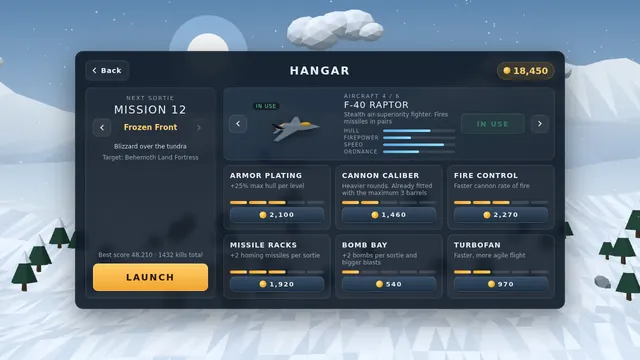
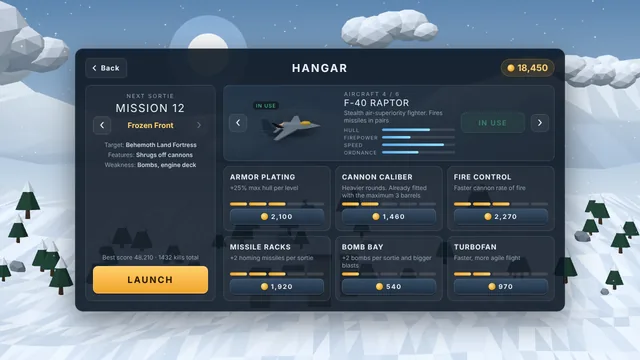
Add Torrondola, refresh the Hostile Horizon hangar shot, use a hyphen in the title
- Page title (and og:title) now reads "Manish Majhi - Browser Games" with a
  plain hyphen instead of an em dash.
- Recaptured the Hostile Horizon hangar at 1280x720 (plus the 640 thumbnail)
  from a local build of the latest main, so it shows the new Target / Features /
  Weakness lines for the next mission. Updated its caption and alt text.
- New Torrondola project card: description, stats, features, controls, tags and
  Play / Source links, with seven real gameplay screenshots captured at phone
  size (720x1280, 360x640 thumbnails) in a portrait gallery. The gallery script
  now reads per-gallery image widths from data-small / data-large.
- Torrondola added to the hero buttons, meta descriptions, What's new and the
  "How they're built" section, which now covers all three games.
- README lists the new game and the portrait screenshot naming.

Claude-Session: https://claude.ai/code/session_01SN9dJ4T8zWgow6LPie8hvX

diff --git a/index.html b/index.html
@@ -3,8 +3,8 @@
 <head>
   <meta charset="utf-8">
   <meta name="viewport" content="width=device-width, initial-scale=1">
-  <title>Manish Majhi — Browser Games</title>
-  <meta name="description" content="Browser games by Manish Majhi: Tunnel Arcade, an endless 3D tunnel flyer, and Hostile Horizon, a side-scrolling aerial combat game. Built with Three.js, installable and playable offline.">
+  <title>Manish Majhi - Browser Games</title>
+  <meta name="description" content="Browser games by Manish Majhi: Tunnel Arcade, an endless 3D tunnel flyer, Hostile Horizon, a side-scrolling aerial combat game, and Torrondola, a pixel-art tower stacker. Installable and playable offline.">
   <meta name="theme-color" content="#070b12">
   <meta name="color-scheme" content="dark">
   <link rel="canonical" href="https://manishmajhimidackertech.github.io/">
@@ -12,8 +12,8 @@
 
   <meta property="og:type" content="website">
   <meta property="og:url" content="https://manishmajhimidackertech.github.io/">
-  <meta property="og:title" content="Manish Majhi — Browser Games">
-  <meta property="og:description" content="Tunnel Arcade and Hostile Horizon: fast, installable Three.js games that play offline, with every model, texture and sound generated in code.">
+  <meta property="og:title" content="Manish Majhi - Browser Games">
+  <meta property="og:description" content="Tunnel Arcade, Hostile Horizon and Torrondola: fast, installable browser games that play offline, with every model, sprite and sound generated in code.">
   <meta property="og:image" content="https://manishmajhimidackertech.github.io/assets/og-image.jpg">
   <meta property="og:image:width" content="1200">
   <meta property="og:image:height" content="630">
@@ -34,6 +34,7 @@
       --cyan: #7fe8ff;
       --blue: #3a9dff;
       --orange: #ffb04a;
+      --rose: #ff8fb4;
       --radius: 18px;
       color-scheme: dark;
     }
@@ -99,7 +100,8 @@
     .btn:hover { border-color: var(--cyan); transform: translateY(-1px); }
     .btn.cyan { background: var(--cyan); color: #04121a; border-color: var(--cyan); }
     .btn.warm { background: var(--orange); color: #1a0d02; border-color: var(--orange); }
-    .btn.cyan:hover, .btn.warm:hover { filter: brightness(1.08); }
+    .btn.rose { background: var(--rose); color: #1f0612; border-color: var(--rose); }
+    .btn.cyan:hover, .btn.warm:hover, .btn.rose:hover { filter: brightness(1.08); }
     .btn svg { width: 16px; height: 16px; flex: none; }
 
     /* ---------- section headings ---------- */
@@ -186,6 +188,16 @@
 
     .tunnel { --accent: var(--cyan); }
     .horizon { --accent: var(--orange); }
+    .torrondola { --accent: var(--rose); }
+
+    /* Portrait game (Torrondola): tall screenshots in a narrower gallery column. */
+    .gallery.portrait .shot-main { aspect-ratio: 9 / 16; width: min(100%, 340px); margin: 0 auto; }
+    .gallery.portrait figcaption { text-align: center; }
+    .gallery.portrait .thumbs { grid-template-columns: repeat(auto-fill, minmax(40px, 1fr)); }
+    .gallery.portrait .thumb { aspect-ratio: 9 / 16; }
+    @media (min-width: 960px) {
+      .project.portrait { grid-template-columns: minmax(0, 380px) minmax(0, 1fr); }
+    }
 
     /* ---------- what's new ---------- */
     .updates { display: grid; gap: 20px; grid-template-columns: repeat(auto-fit, minmax(min(340px, 100%), 1fr)); }
@@ -244,12 +256,14 @@
     <div class="eyebrow">Portfolio · Browser games</div>
     <h1>Hi, I'm Manish.<br>I build <span class="grad">games for the web</span>.</h1>
     <p class="lede">
-      Fast, installable 3D games made with Three.js. There's nothing to download and no app store:
-      every model, texture and sound is generated in code, and both games keep working offline.
+      Fast, installable games that run in the browser: two 3D games made with Three.js and a pixel-art tower stacker.
+      There's nothing to download and no app store: every model, sprite, texture and sound is generated in code,
+      and all three games keep working offline.
     </p>
     <div class="links">
       <a class="btn cyan" href="https://manishmajhimidackertech.github.io/Tunnel-Arcade/">▶ Play Tunnel Arcade</a>
       <a class="btn warm" href="https://manishmajhimidackertech.github.io/Hostile-Horizon/">▶ Play Hostile Horizon</a>
+      <a class="btn rose" href="https://manishmajhimidackertech.github.io/torrondola/">▶ Play Torrondola</a>
       <a class="btn" href="https://github.com/manishmajhimidackertech">
         <svg viewBox="0 0 16 16" fill="currentColor" aria-hidden="true"><path d="M8 0C3.58 0 0 3.58 0 8c0 3.54 2.29 6.53 5.47 7.59.4.07.55-.17.55-.38 0-.19-.01-.82-.01-1.49-2.01.37-2.53-.49-2.69-.94-.09-.23-.48-.94-.82-1.13-.28-.15-.68-.52-.01-.53.63-.01 1.08.58 1.23.82.72 1.21 1.87.87 2.33.66.07-.52.28-.87.51-1.07-1.78-.2-3.64-.89-3.64-3.95 0-.87.31-1.59.82-2.15-.08-.2-.36-1.02.08-2.12 0 0 .67-.21 2.2.82.64-.18 1.32-.27 2-.27.68 0 1.36.09 2 .27 1.53-1.04 2.2-.82 2.2-.82.44 1.1.16 1.92.08 2.12.51.56.82 1.27.82 2.15 0 3.07-1.87 3.75-3.65 3.95.29.25.54.73.54 1.48 0 1.07-.01 1.93-.01 2.2 0 .21.15.46.55.38A8.013 8.013 0 0016 8c0-4.42-3.58-8-8-8z"/></svg>
         GitHub profile
@@ -260,7 +274,7 @@
   <main class="wrap">
     <section id="projects" aria-labelledby="projects-title">
       <h2 id="projects-title">Projects</h2>
-      <p class="section-lede">Two games, both playable in the browser on a phone, tablet or computer. The screenshots are real gameplay.</p>
+      <p class="section-lede">Three games, all playable in the browser on a phone, tablet or computer. The screenshots are real gameplay.</p>
 
       <!-- ================= Tunnel Arcade ================= -->
       <article class="project tunnel" id="tunnel-arcade" aria-labelledby="ta-title">
@@ -376,8 +390,8 @@
               data-caption="Night Siege: sweeping watchtower searchlights"
               data-alt="Hostile Horizon: a Su-X Specter flies over a dark forest crossed by watchtower searchlight beams"><img src="assets/shots/horizon-night-640.webp" alt="Night Siege" width="640" height="360" loading="lazy"></button></li>
             <li><button type="button" class="thumb" aria-pressed="false" data-shot="horizon-hangar"
-              data-caption="The hangar: six aircraft, each with its own upgrades"
-              data-alt="Hostile Horizon hangar screen showing the F-40 Raptor, its stats and six upgrade tracks"><img src="assets/shots/horizon-hangar-640.webp" alt="Hangar" width="640" height="360" loading="lazy"></button></li>
+              data-caption="The hangar: pick a jet, upgrade it and size up the next boss"
+              data-alt="Hostile Horizon hangar screen showing the F-40 Raptor, six upgrade tracks and the next mission's target, features and weakness"><img src="assets/shots/horizon-hangar-640.webp" alt="Hangar" width="640" height="360" loading="lazy"></button></li>
           </ul>
         </figure>
 
@@ -434,13 +448,112 @@
           </div>
         </div>
       </article>
+
+      <!-- ================= Torrondola ================= -->
+      <article class="project torrondola portrait" id="torrondola" aria-labelledby="to-title">
+        <figure class="gallery portrait" data-gallery data-small="360" data-large="720">
+          <a class="shot-main" href="assets/shots/torrondola-stack.webp">
+            <img src="assets/shots/torrondola-stack.webp"
+                 srcset="assets/shots/torrondola-stack-360.webp 360w, assets/shots/torrondola-stack.webp 720w"
+                 sizes="340px"
+                 width="720" height="1280" alt="Torrondola: a red palazzo floor hangs from a crane above a five-floor tower, over Tuscan hills" loading="lazy">
+          </a>
+          <figcaption>Floor 6: the crane swings the next floor into place</figcaption>
+          <ul class="thumbs" aria-label="Torrondola screenshots">
+            <li><button type="button" class="thumb" aria-pressed="true" data-shot="torrondola-stack"
+              data-caption="Floor 6: the crane swings the next floor into place"
+              data-alt="Torrondola: a red palazzo floor hangs from a crane above a five-floor tower, over Tuscan hills"><img src="assets/shots/torrondola-stack-360.webp" alt="Early tower" width="360" height="640" loading="lazy"></button></li>
+            <li><button type="button" class="thumb" aria-pressed="false" data-shot="torrondola-pick"
+              data-caption="Benedizione! Every 10 floors Nonna deals three blessing cards"
+              data-alt="Torrondola: three blessing cards, Ancora, Azzardo and Calamita, with Azzardo picked and its effect described"><img src="assets/shots/torrondola-pick-360.webp" alt="Blessing cards" width="360" height="640" loading="lazy"></button></li>
+            <li><button type="button" class="thumb" aria-pressed="false" data-shot="torrondola-sunset"
+              data-caption="Floor 27: sunset, and the wind starts to blow"
+              data-alt="Torrondola: a yellow floor swings over the tower against a swirling sunset sky as Nonna says Tira vento!"><img src="assets/shots/torrondola-sunset-360.webp" alt="Sunset" width="360" height="640" loading="lazy"></button></li>
+            <li><button type="button" class="thumb" aria-pressed="false" data-shot="torrondola-night"
+              data-caption="Floor 50: climbing past the moon"
+              data-alt="Torrondola: a floor hangs in front of the moon in a dark blue night sky, with a x6 combo"><img src="assets/shots/torrondola-night-360.webp" alt="Night" width="360" height="640" loading="lazy"></button></li>
+            <li><button type="button" class="thumb" aria-pressed="false" data-shot="torrondola-space"
+              data-caption="Floor 70: into space, with gusts from the side"
+              data-alt="Torrondola: the tower reaches starry space while a wind warning points left"><img src="assets/shots/torrondola-space-360.webp" alt="Space" width="360" height="640" loading="lazy"></button></li>
+            <li><button type="button" class="thumb" aria-pressed="false" data-shot="torrondola-over"
+              data-caption="The results card: a postcard of your tower, signed by Nonna"
+              data-alt="Torrondola results screen: an airmail postcard showing the tower, score, best combo and blessings, with Play again, Menu and Save image buttons"><img src="assets/shots/torrondola-over-360.webp" alt="Results postcard" width="360" height="640" loading="lazy"></button></li>
+            <li><button type="button" class="thumb" aria-pressed="false" data-shot="torrondola-title"
+              data-caption="Title screen over the Tuscan countryside"
+              data-alt="Torrondola title screen with the rainbow logo over the Tuscan hills and Nonna in the corner"><img src="assets/shots/torrondola-title-360.webp" alt="Title screen" width="360" height="640" loading="lazy"></button></li>
+          </ul>
+        </figure>
+
+        <div class="info">
+          <div class="info-head">
+            <img src="assets/torrondola.png" alt="" width="56" height="56">
+            <div>
+              <h3 id="to-title">Torrondola</h3>
+              <p class="kicker">Pixel-art tower stacker</p>
+            </div>
+          </div>
+          <p>
+            <em>La torretta che dondola</em>: the little swinging tower. A crane swings each floor of an Italian
+            palazzo on a rope. Drop it and try to land it straight on the floor below. Off-centre landings make
+            the tower sway, and if the top swings too far the whole thing comes down (<em>crollo!</em>).
+            Nonna watches from the corner and has opinions about every drop.
+          </p>
+          <dl class="stats">
+            <div><dt>blessing cards</dt><dd>9</dd></div>
+            <div><dt>skies to climb</dt><dd>4</dd></div>
+            <div><dt>combo callouts</dt><dd>7</dd></div>
+            <div><dt>dependencies</dt><dd>0</dd></div>
+          </dl>
+          <ul class="features">
+            <li><strong>Perfect drops</strong> snap dead centre, build a combo and calm the sway, from <em>Perfetto</em>
+              all the way up to <em>Leggendario</em>.</li>
+            <li><strong>Blessings every 10 floors.</strong> Nonna deals three cards and you keep one: a slower crane,
+              an extra life, a bigger perfect zone, or a faster crane for double points.</li>
+            <li><strong>Golden floors</strong> worth triple points, gusts of wind from floor 25, pigeons on the roof and a
+              little bulldozer that clears away fallen floors.</li>
+            <li><strong>The sky changes as you climb</strong>, from a blue day over the Tuscan countryside to sunset,
+              night and finally space, past a hot-air balloon, the moon, satellites and the odd UFO.</li>
+            <li>An airmail <strong>results postcard</strong> of your tower to share or save, and a looping chiptune tarantella.</li>
+          </ul>
+          <details class="controls">
+            <summary>Controls</summary>
+            <div class="table-scroll">
+              <table>
+                <thead><tr><th scope="col">Action</th><th scope="col">Touch / mouse</th><th scope="col">Keyboard</th></tr></thead>
+                <tbody>
+                  <tr><th scope="row">Drop the floor</th><td>Tap anywhere</td><td>Space / Enter / ↓</td></tr>
+                  <tr><th scope="row">Pick a blessing</th><td>Tap a card, tap again to keep it</td><td>← → or 1–3, then Space</td></tr>
+                  <tr><th scope="row">Pause</th><td>Pause icon</td><td>P / Esc</td></tr>
+                  <tr><th scope="row">Mute</th><td>Speaker icon</td><td>M</td></tr>
+                </tbody>
+              </table>
+            </div>
+            <p class="table-note">Phones play it full screen in portrait.</p>
+          </details>
+          <ul class="tags" aria-label="Built with"><li>Canvas 2D</li><li>ES modules</li><li>PWA</li><li>WebAudio</li><li>No build step</li></ul>
+          <div class="actions">
+            <a class="btn rose" href="https://manishmajhimidackertech.github.io/torrondola/">▶ Play Torrondola</a>
+            <a class="btn" href="https://github.com/manishmajhimidackertech/torrondola">Source code</a>
+          </div>
+        </div>
+      </article>
     </section>
 
     <!-- ================= What's new ================= -->
     <section id="updates" aria-labelledby="updates-title">
       <h2 id="updates-title">What's new</h2>
-      <p class="section-lede">Both games got a big round of updates in September 2026.</p>
+      <p class="section-lede">Torrondola is out, and Tunnel Arcade and Hostile Horizon got a big round of updates in September 2026.</p>
       <div class="updates">
+        <article class="update torrondola">
+          <h3><img src="assets/torrondola.png" alt="" width="28" height="28">Torrondola</h3>
+          <p class="when">New game · November 2026</p>
+          <ul>
+            <li><strong>A brand-new game.</strong> Stack an Italian palazzo floor by floor from a swinging crane.</li>
+            <li><strong>Nine blessing cards</strong>, dealt by Nonna every 10 floors, change how each run plays out.</li>
+            <li><strong>Wind, golden floors and a sky</strong> that climbs from Tuscan countryside to outer space.</li>
+            <li><strong>Pixel art drawn in code</strong>, chiptune sound, and a results postcard you can share.</li>
+          </ul>
+        </article>
         <article class="update tunnel">
           <h3><img src="assets/tunnel-arcade.svg" alt="" width="28" height="28">Tunnel Arcade</h3>
           <p class="when">September 2026</p>
@@ -468,12 +581,12 @@
     <!-- ================= How they're built ================= -->
     <section id="built" aria-labelledby="built-title">
       <h2 id="built-title">How they're built</h2>
-      <p class="section-lede">Both games share the same approach: small, fast and self-contained.</p>
+      <p class="section-lede">All three games share the same approach: small, fast and self-contained.</p>
       <div class="pillars">
         <div class="pillar">
           <svg viewBox="0 0 24 24" fill="none" stroke="currentColor" stroke-width="2" stroke-linecap="round" stroke-linejoin="round" aria-hidden="true"><path d="M12 2l8.66 5v10L12 22l-8.66-5V7z"/><path d="M12 22V12M20.66 7L12 12 3.34 7"/></svg>
           <h3>Generated in code</h3>
-          <p>Every 3D model, texture, sound effect and music track is created at runtime. Apart from the app icons, there are no image or audio files to download.</p>
+          <p>Every 3D model, pixel-art sprite, texture, sound effect and music track is created at runtime. Apart from the app icons, there are no image or audio files to download.</p>
         </div>
         <div class="pillar">
           <svg viewBox="0 0 24 24" fill="none" stroke="currentColor" stroke-width="2" stroke-linecap="round" stroke-linejoin="round" aria-hidden="true"><path d="M5 12.55a11 11 0 0114.08 0M1.42 9a16 16 0 0121.16 0M8.53 16.11a6 6 0 016.95 0"/><path d="M12 20h.01"/><path d="M2 2l20 20"/></svg>
@@ -483,17 +596,17 @@
         <div class="pillar">
           <svg viewBox="0 0 24 24" fill="none" stroke="currentColor" stroke-width="2" stroke-linecap="round" stroke-linejoin="round" aria-hidden="true"><rect x="2" y="6" width="20" height="12" rx="3"/><path d="M6 12h4M8 10v4"/><path d="M15 11h.01M18 13h.01"/></svg>
           <h3>Any device, any input</h3>
-          <p>Touch, keyboard, mouse and gamepad, plus tilt steering in Tunnel Arcade. On phones they play full screen in landscape.</p>
+          <p>Touch, keyboard and mouse, gamepads in the 3D games, and tilt steering in Tunnel Arcade. On phones they play full screen: the 3D games in landscape, Torrondola in portrait.</p>
         </div>
         <div class="pillar">
           <svg viewBox="0 0 24 24" fill="none" stroke="currentColor" stroke-width="2" stroke-linecap="round" stroke-linejoin="round" aria-hidden="true"><path d="M4 12a8 8 0 0114-5.3L20 9"/><path d="M20 4v5h-5"/><path d="M20 12a8 8 0 01-14 5.3L4 15"/><path d="M4 20v-5h5"/></svg>
           <h3>Built and shipped by CI</h3>
-          <p>Three.js and Vite. GitHub Actions builds each game and deploys it to GitHub Pages on every push, after running Tunnel Arcade's unit tests.</p>
+          <p>The 3D games use Three.js and Vite; Torrondola is plain ES modules with no build step. GitHub Actions deploys each game to GitHub Pages on every push, after running Tunnel Arcade's unit tests.</p>
         </div>
       </div>
 
       <p class="note">
-        Both games are installable Progressive Web Apps: open one on your phone and choose
+        All three games are installable Progressive Web Apps: open one on your phone and choose
         “Add to Home Screen” (or “Install app”) to play it like a native app, even without a connection.
       </p>
     </section>
@@ -511,11 +624,13 @@
       const img = link.querySelector('img');
       const caption = gallery.querySelector('figcaption');
       const thumbs = gallery.querySelectorAll('.thumb');
+      const small = gallery.dataset.small || '640';
+      const large = gallery.dataset.large || '1280';
       for (const thumb of thumbs) {
         thumb.addEventListener('click', () => {
           const base = 'assets/shots/' + thumb.dataset.shot;
           img.src = base + '.webp';
-          img.srcset = base + '-640.webp 640w, ' + base + '.webp 1280w';
+          img.srcset = base + '-' + small + '.webp ' + small + 'w, ' + base + '.webp ' + large + 'w';
           img.alt = thumb.dataset.alt;
           link.href = base + '.webp';
           caption.textContent = thumb.dataset.caption;

diff --git a/README.md b/README.md
@@ -10,21 +10,25 @@ screenshots, a feature rundown and a "What's new" section for each:
   tunnel flyer with slow-motion pickups and tilt steering (Three.js PWA)
 - [Hostile Horizon](https://github.com/manishmajhimidackertech/Hostile-Horizon): side-scrolling aerial combat with eight
   maps, six aircraft and seven bosses (Three.js PWA)
+- [Torrondola](https://github.com/manishmajhimidackertech/torrondola): pixel-art tower stacker with a swinging crane,
+  blessing cards and Nonna's commentary (canvas 2D PWA, no build step)
 
 ## Files
 
 ```
 index.html             the whole page: markup, CSS and a few lines of JS for the screenshot galleries
 assets/favicon.svg     site icon
-assets/tunnel-arcade.svg, hostile-horizon.svg
+assets/tunnel-arcade.svg, hostile-horizon.svg, torrondola.png
                        app icons copied from each game repo
-assets/shots/          gameplay screenshots as WebP, full size (1280x720) and -640 thumbnails
+assets/shots/          gameplay screenshots as WebP: landscape at 1280x720 with -640 thumbnails,
+                       Torrondola (a portrait game) at 720x1280 with -360 thumbnails
 assets/og-image.jpg    1200x630 link preview for social media and chat apps
 ```
 
 To add or swap a screenshot, save a 1280x720 WebP as `assets/shots/<name>.webp` plus a 640x360
 `assets/shots/<name>-640.webp`, then add a thumbnail button with `data-shot="<name>"` to the game's gallery in
-`index.html`.
+`index.html`. For Torrondola, use a 720x1280 `<name>.webp` and a 360x640 `<name>-360.webp` instead; its gallery
+has `data-small="360" data-large="720"` so the script picks the right files.
 
 ## Publishing
 
